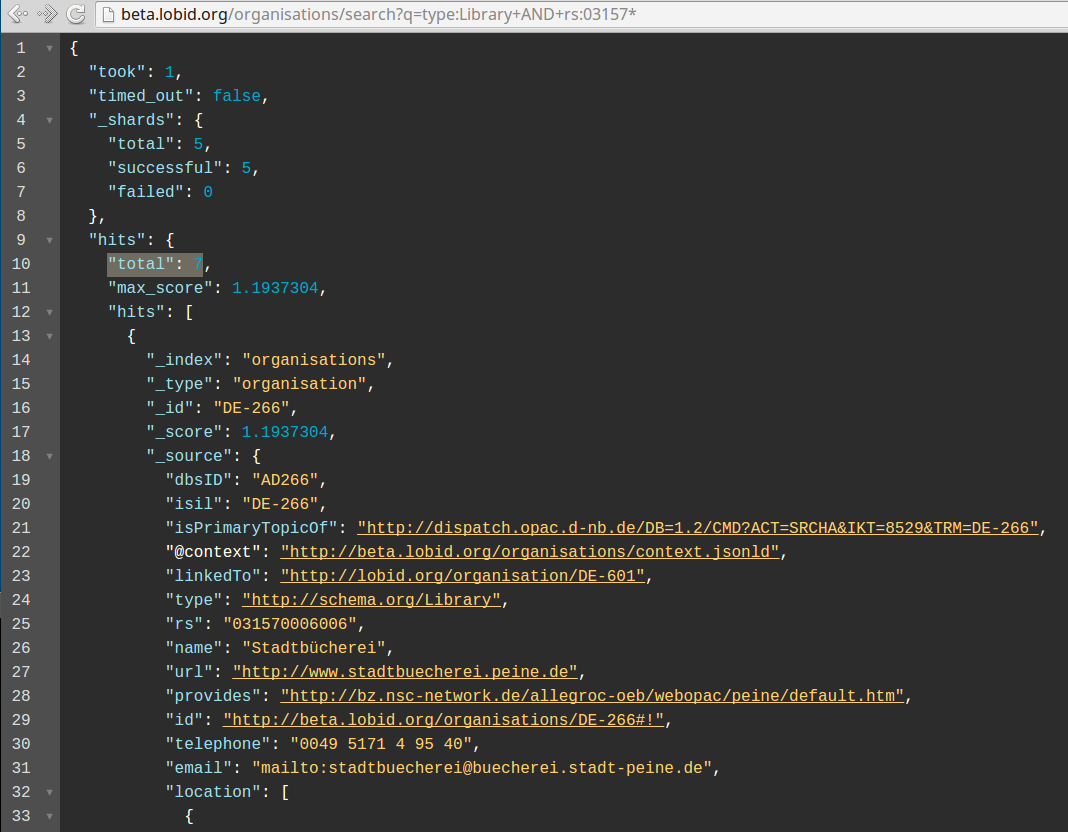
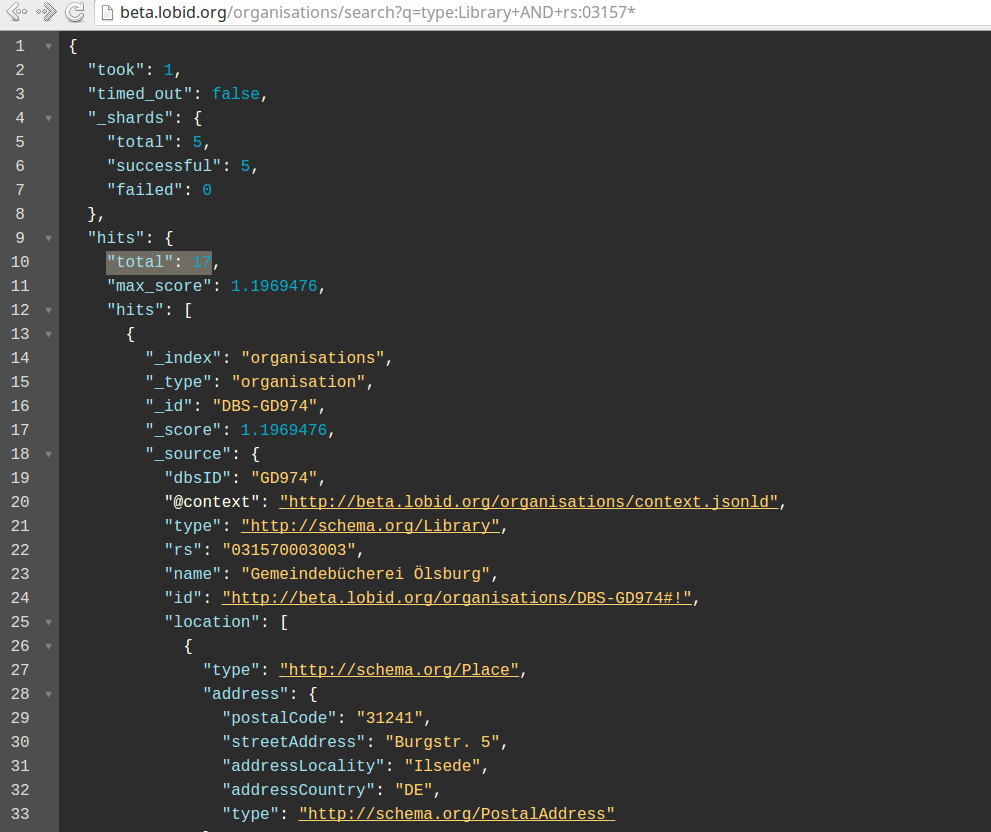
Letzte Anpassungen.

Changed region(s): [[0.0, 0.0, 1.0, 1.0]]

diff --git a/bibcast16/index.html b/bibcast16/index.html
@@ -368,7 +368,7 @@
 			<section>
 				<h2>Wieviele Bibliotheken gibt es im Landkreis Peine?</h2>
 				<span class="fragment">
-					<h3>Antwort: Sieben (laut lobid)</h3>
+					<h3>Antwort: 17</h3>
 				</span>
 			</section>
 
@@ -528,7 +528,7 @@
 								<td>Stadt- und Schulbücherei Gunzenhausen</td>
 								<td>91710</td>
 							</tr>
-							<tr>
+							<tr>#/29
 								<td>WH759</td>
 								<td>Gemeindebibliothek Hohenleipisch</td>
 								<td>4934</td>
@@ -537,9 +537,16 @@
 					</table>
 					</p>
 				</span> <span class="fragment">
-					<h2>Benötigt: ISILs oder DBS-IDs</h2>
-				</span>
-			</section>
+29
+								<td>WH759</td>
+								<td>Gemeindebibliothek Hohenleipisch</td>
+								<td>4934</td>
+							</tr>
+						</tbody>
+					</table>
+					</p>
+				</span> <span class="fragment">
+					<h2>Benötigt: ISILs oder DBS			</section>
 
 			<section>
 				
@@ -602,8 +609,7 @@
 			<section>
 				<h2>Datenkorrekturen/-ergänzungen erwünscht:</h2>
 				<ul class="fragment">
-					<li >Bei Sigeldaten <a href="http://sigel.staatsbibliothek-berlin.de/aenderungen-mitteilen/">hier entlang</a>
-						(Es fehlen <br />z.B. eine Menge Regionalschlüssel.)</li>
+					<li >Bei Sigeldaten: <a href="http://sigel.staatsbibliothek-berlin.de/aenderungen-mitteilen/">hier entlang</a></li>
 					<li>Bei DBS-Daten hbz kontaktieren.</li>
 				</ul>
 			</section>
